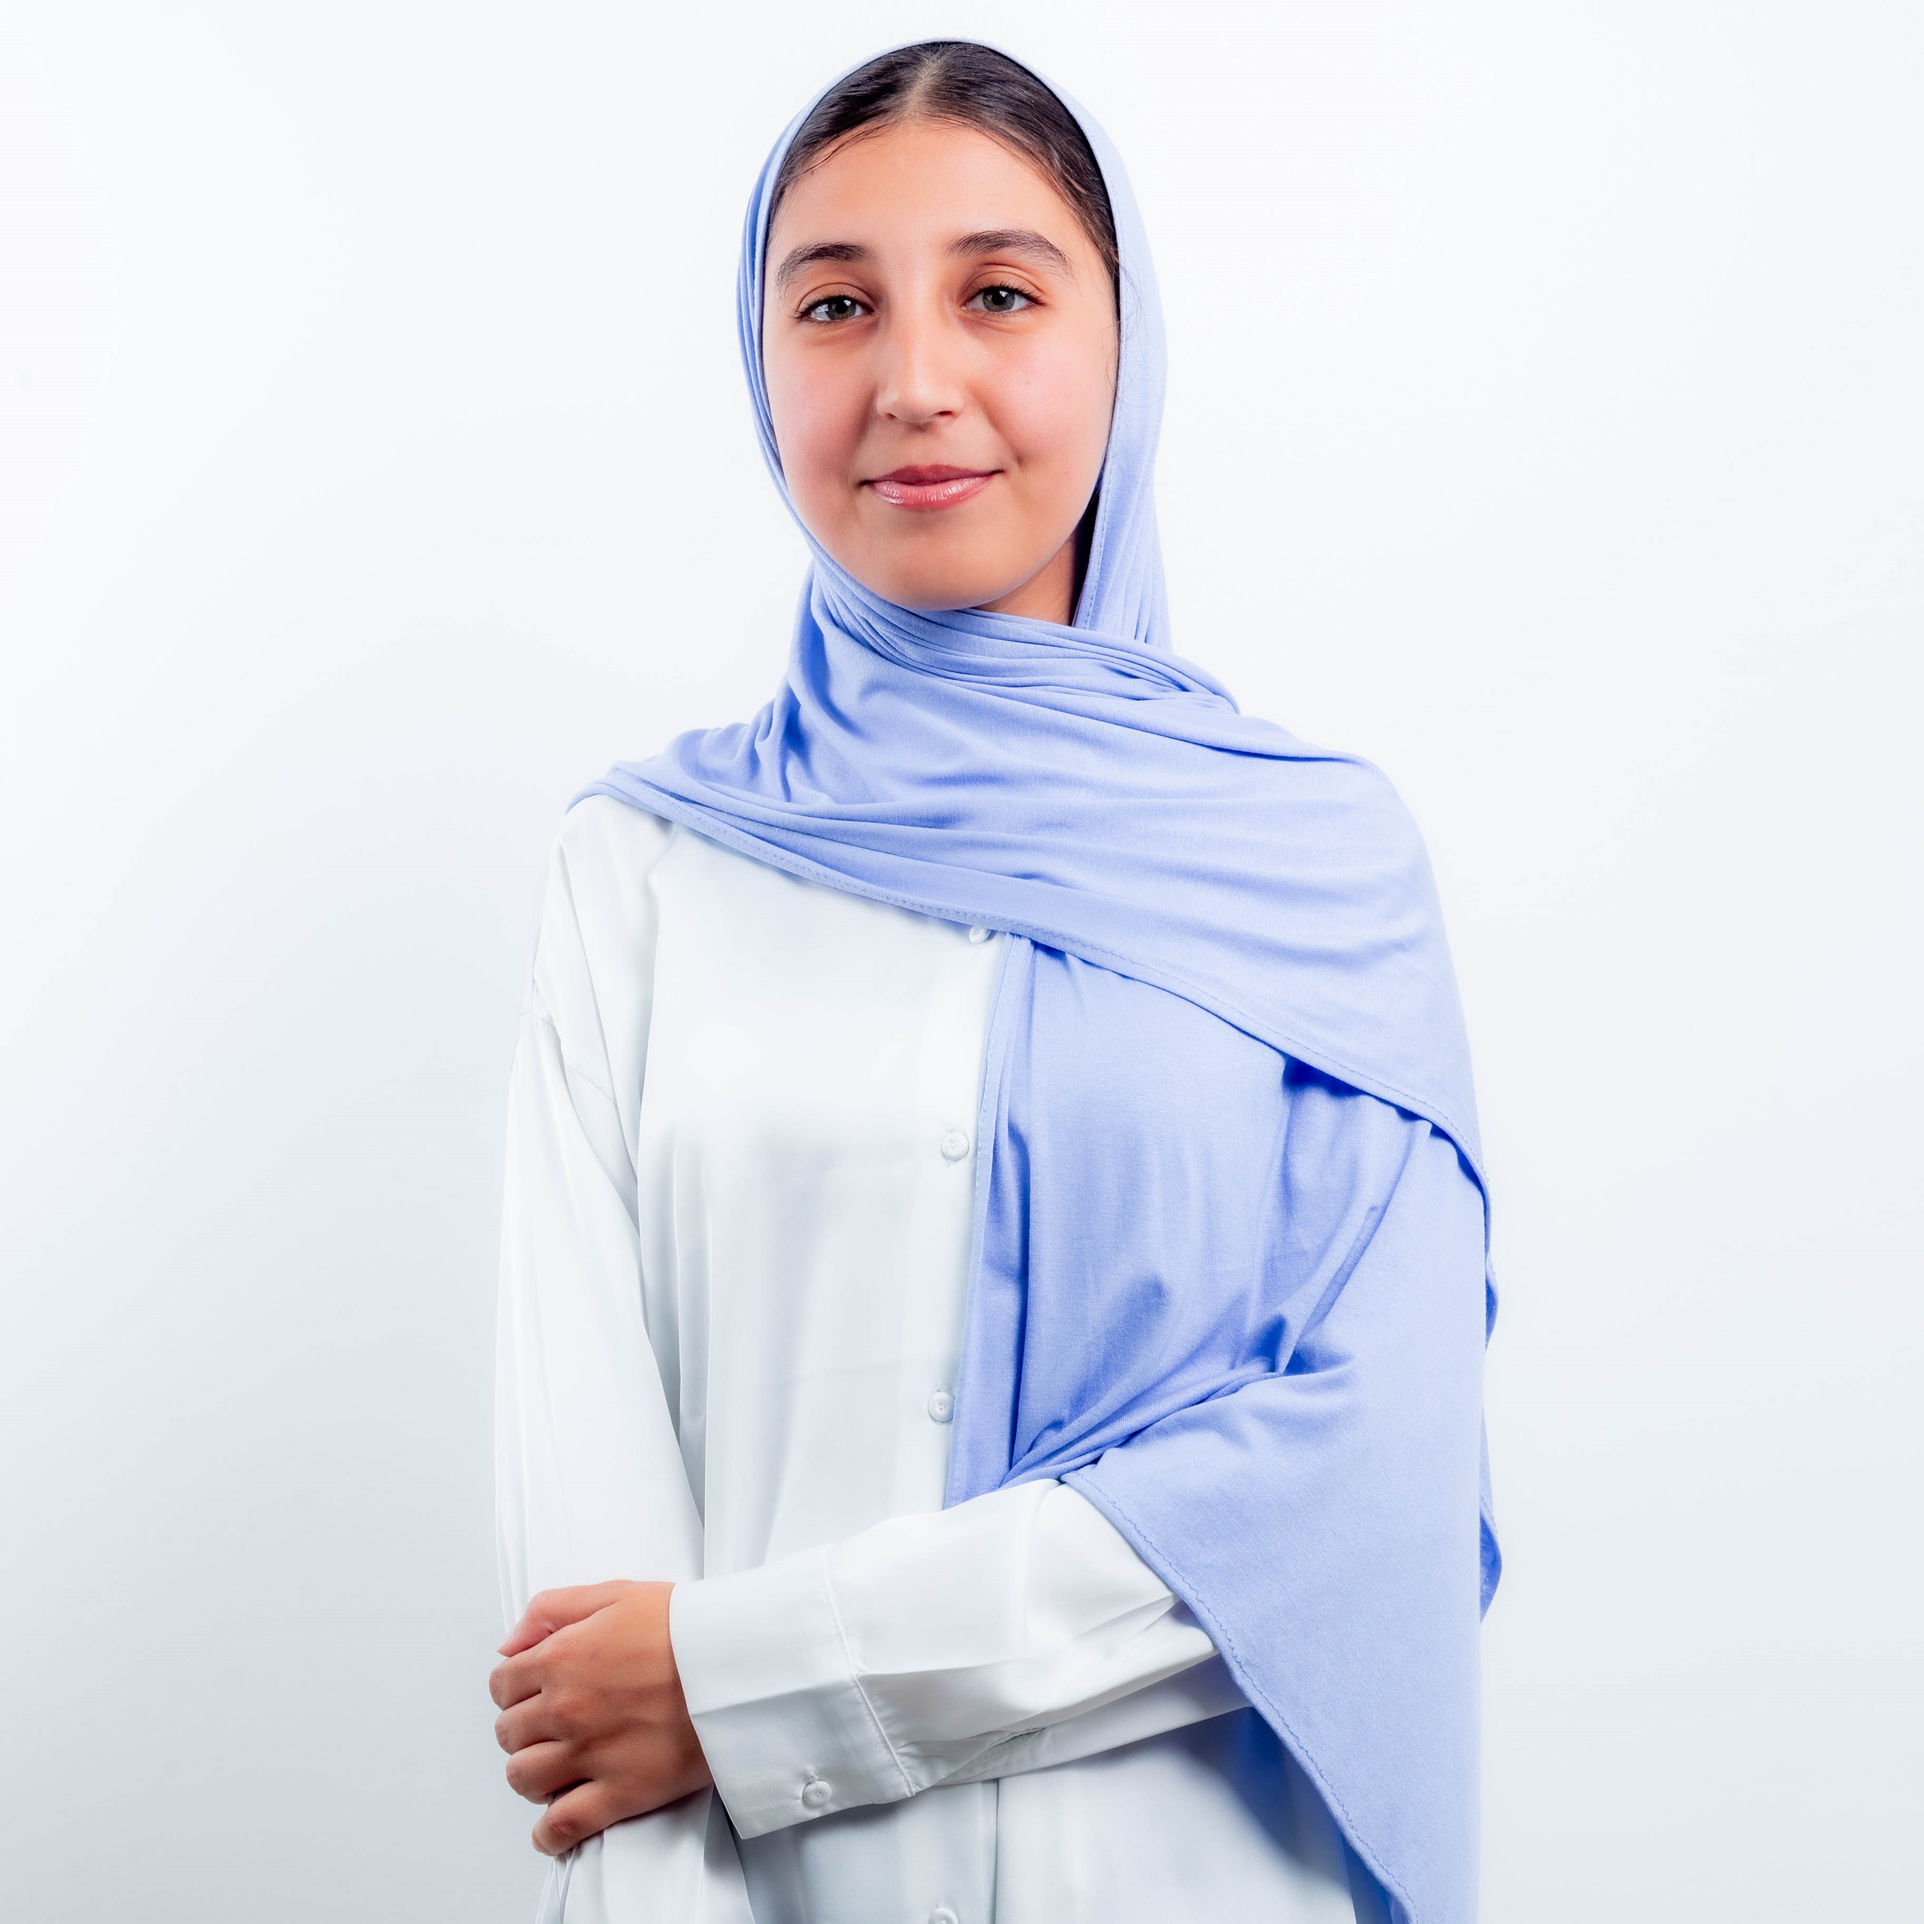
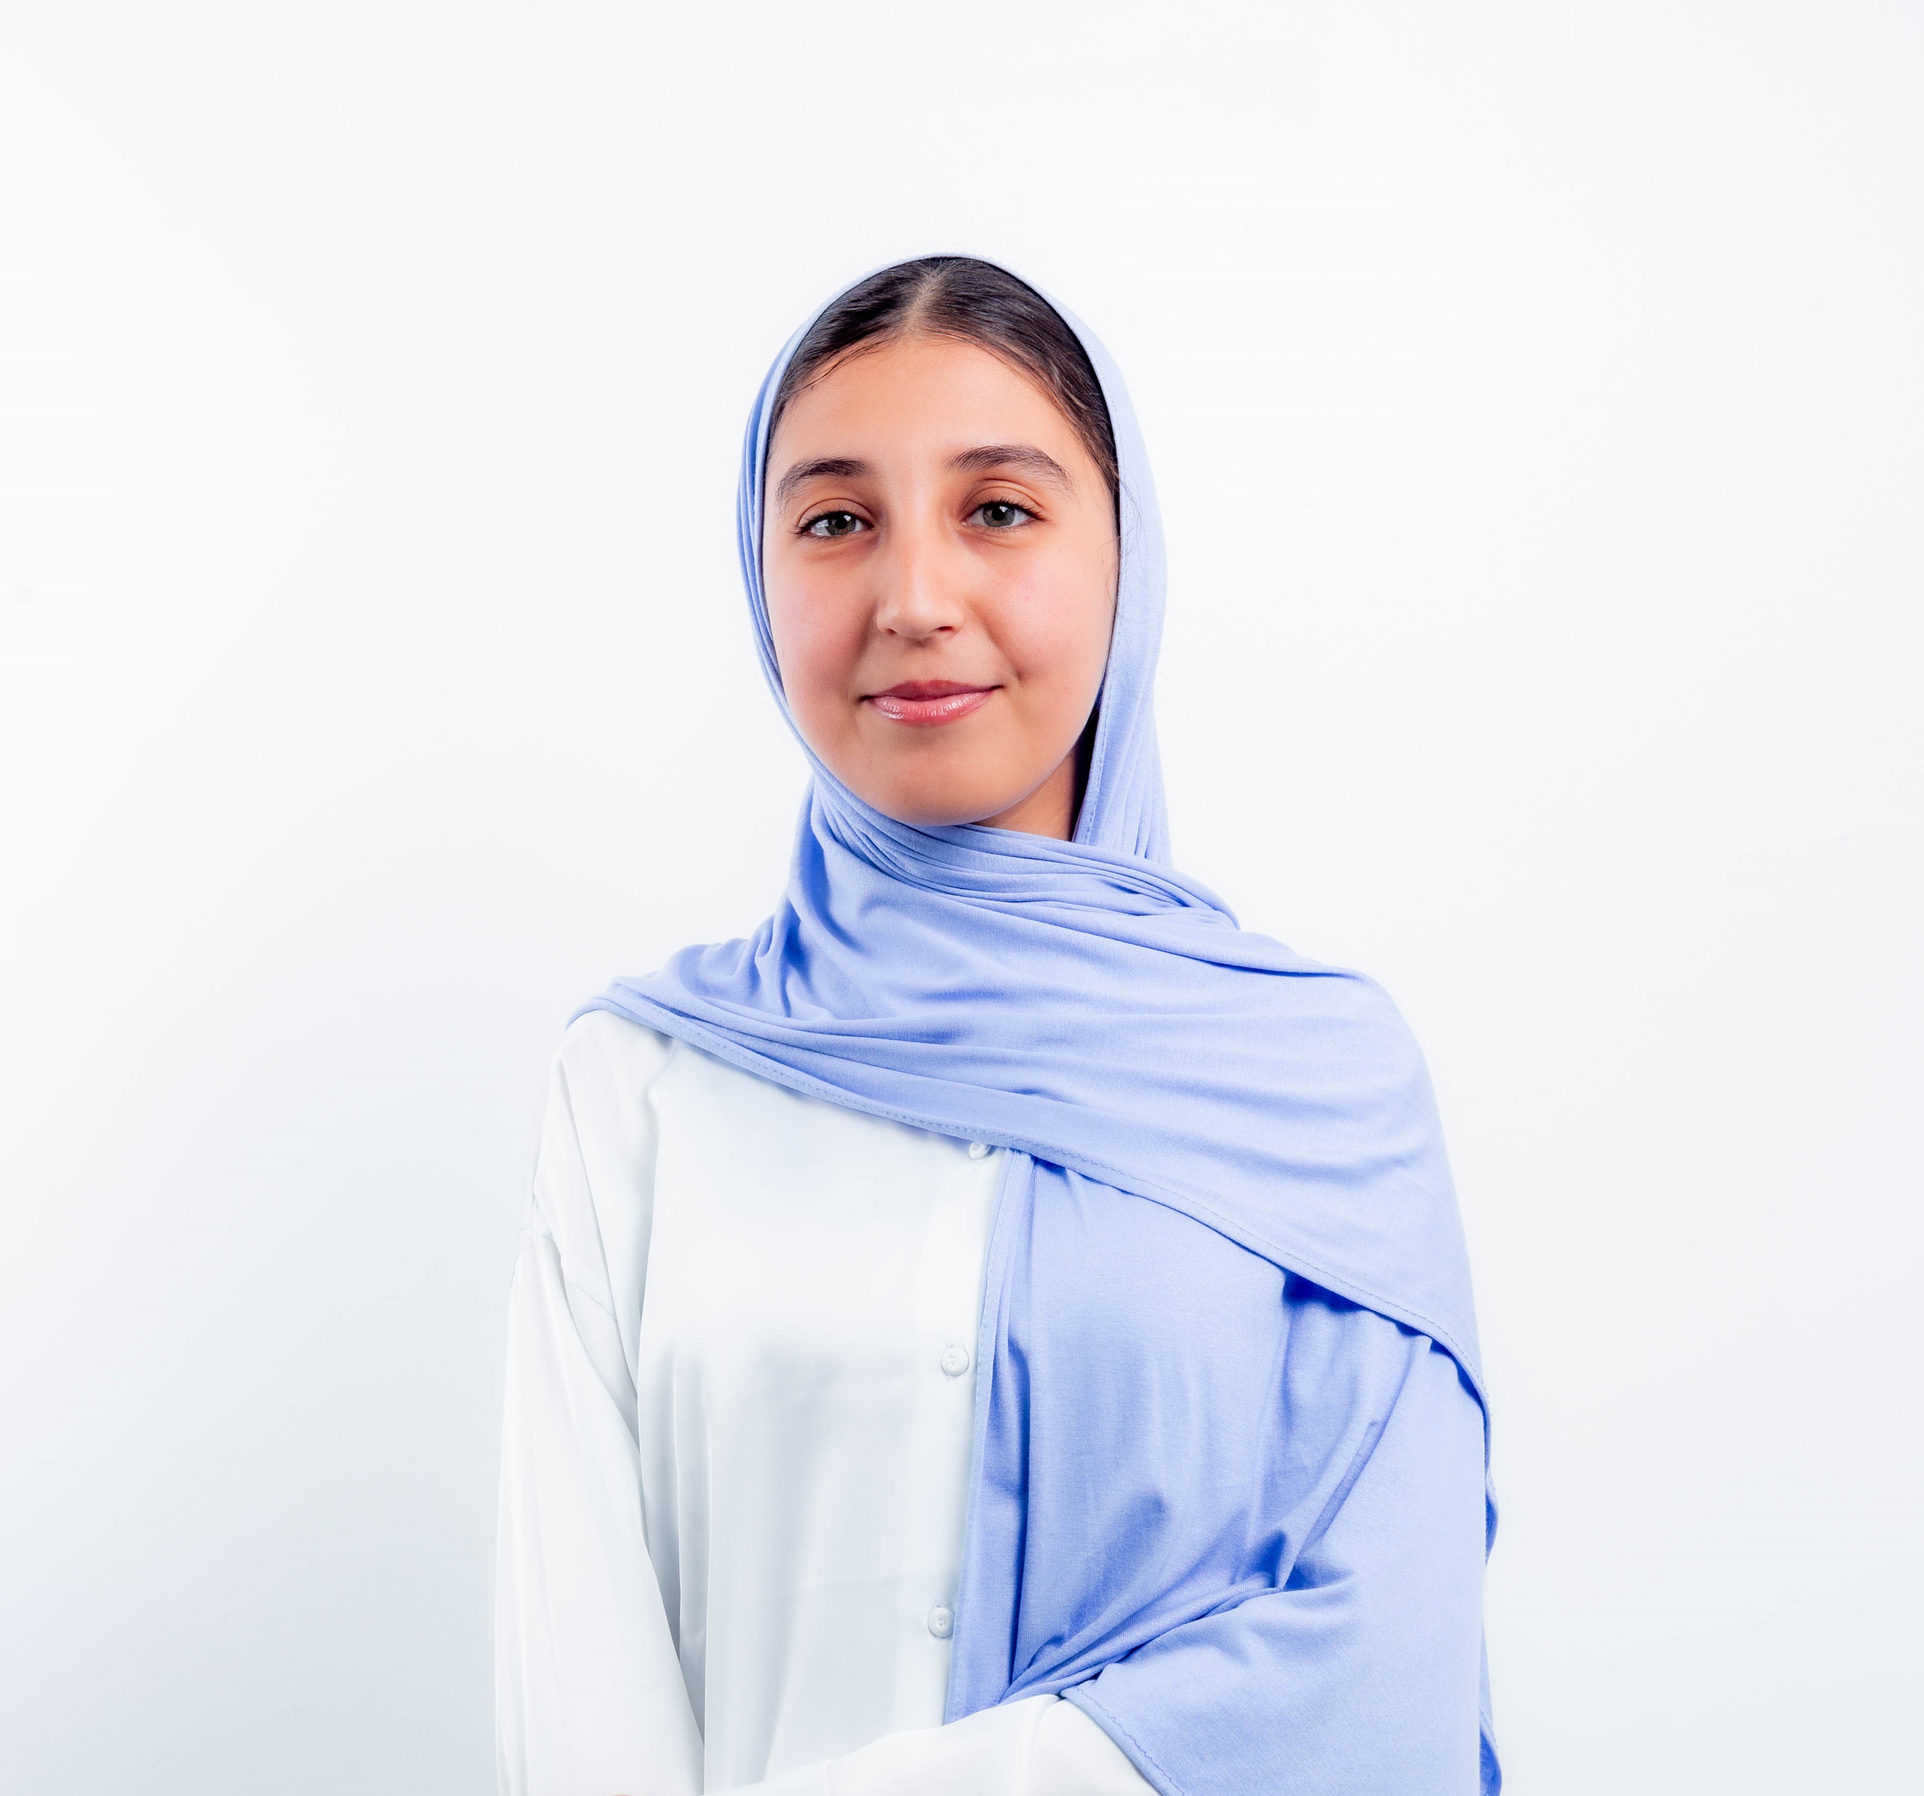
portfolio1

Changed region(s): [[0.25, 0.0, 0.7812, 1.0], [0.4062, 0.8094, 0.4375, 0.8405]]

diff --git a/index.html b/index.html
@@ -99,7 +99,7 @@
       <div class="section-container">
         <div class="pic_container">
           <img
-            src="/assets/ark x-127 (2).jpg"
+            src="/assets/pic.jpg"
             alt="Profile picture"
             class="about_pic"
           />
@@ -157,7 +157,6 @@
                 <img
                   src="/assets/checkmark.png"
                   alt="Experience icon"
-                  style="width: 100%"
                   class="icon"
                 />
                 <div>
@@ -222,7 +221,7 @@
                 />
                 <div>
                   <h3>JavaScript</h3>
-                  <p>Experienced</p>
+                  <p>Intermediate</p>
                 </div>
               </article>
               <article>
@@ -288,72 +287,72 @@
           <div class="details-container color-container">
             <div class="article-container">
               <img
-                src="/assets/project-1.png"
+                src="/assets/lvs.jpeg"
                 alt="Project 1"
                 class="project-img"
               />
             </div>
-            <h2 class="sub-title1">Project One</h2>
+            <h2 class="sub-title1">Lvs</h2>
             <div class="btn-container">
-              <button
+              <!-- <button
                 class="contact project-btn"
                 onclick="location.href='https://github.com/'"
               >
                 Github
-              </button>
+              </button> -->
               <button
                 class="contact project-btn"
-                onclick="location.href='https://github.com/'"
+                onclick="location.href='https://soubaicar.com/'"
               >
-                Live Demo
+                Go explore
               </button>
             </div>
           </div>
           <div class="details-container color-container">
             <div class="article-container">
               <img
-                src="/assets/project-2.png"
+                src="/assets/soubdrive.jpeg"
                 alt="Project 2"
                 class="project-img"
               />
             </div>
-            <h2 class="sub-title1">Project Two</h2>
+            <h2 class="sub-title1">Soubdrive</h2>
             <div class="btn-container">
-              <button
+              <!-- <button
                 class="contact project-btn"
                 onclick="location.href='https://github.com/'"
               >
                 Github
-              </button>
+              </button> -->
               <button
                 class="contact project-btn"
-                onclick="location.href='https://github.com/'"
+                onclick="location.href='https://soubdrive.com/en/home/'"
               >
-                Live Demo
+                Go explore
               </button>
             </div>
           </div>
           <div class="details-container color-container">
             <div class="article-container">
               <img
-                src="/assets/project-3.png"
+                src="/assets/webservicessh.jpeg"
                 alt="Project 3"
                 class="project-img"
               />
             </div>
-            <h2 class="sub-title1">Project Three</h2>
+            <h2 class="sub-title1">SH web services</h2>
             <div class="btn-container">
-              <button
+              <!-- <button
                 class="contact project-btn"
                 onclick="location.href='https://github.com/'"
               >
                 Github
-              </button>
+              </button> -->
               <button
                 class="contact project-btn"
-                onclick="location.href='https://github.com/'"
+                onclick="location.href='https://webservicessh.com/fr/'"
               >
-                Live Demo
+                Go explore
               </button>
             </div>
           </div>
@@ -401,7 +400,7 @@
         </div>
       </nav>
       <p>Copyright &#169; 2023 Ikram Belhaj. All Rights Reserved.</p>
-      <a href="/"><i class="bx bx-up-arrow-alt"></i></a>
+      <a href="/" class="scroll-to-top"><i class="bx bx-up-arrow-alt"></i></a>
     </footer>
   </body>
 </html>

diff --git a/style.css b/style.css
@@ -494,3 +494,21 @@ footer a i {
     border: .2rem solid;
 }
 
+.scroll-to-top {
+    display: none;
+    position: fixed;
+    bottom: 20px; /* Adjust as needed */
+    right: 20px; /* Adjust as needed */
+    /* background-color: #007bff; */
+    /* color: #ffffff; */
+    width: 40px;
+    height: 40px;
+    text-align: center;
+    line-height: 40px;
+    border-radius: 50%;
+    text-decoration: none;
+    transition: opacity 0.3s ease;
+  }
+  .scroll-to-top.show {
+    display: block;
+  }

diff --git a/script.js b/script.js
@@ -4,3 +4,13 @@ function toggleMenu(){
     menu.classList.toggle("open");
     icon.classList.toggle("open");
 }
+
+
+window.addEventListener('scroll', function() {
+    var scrollButton = document.querySelector('.scroll-to-top');
+    if (window.scrollY > 300) {
+      scrollButton.classList.add('show');
+    } else {
+      scrollButton.classList.remove('show');
+    }
+  });
